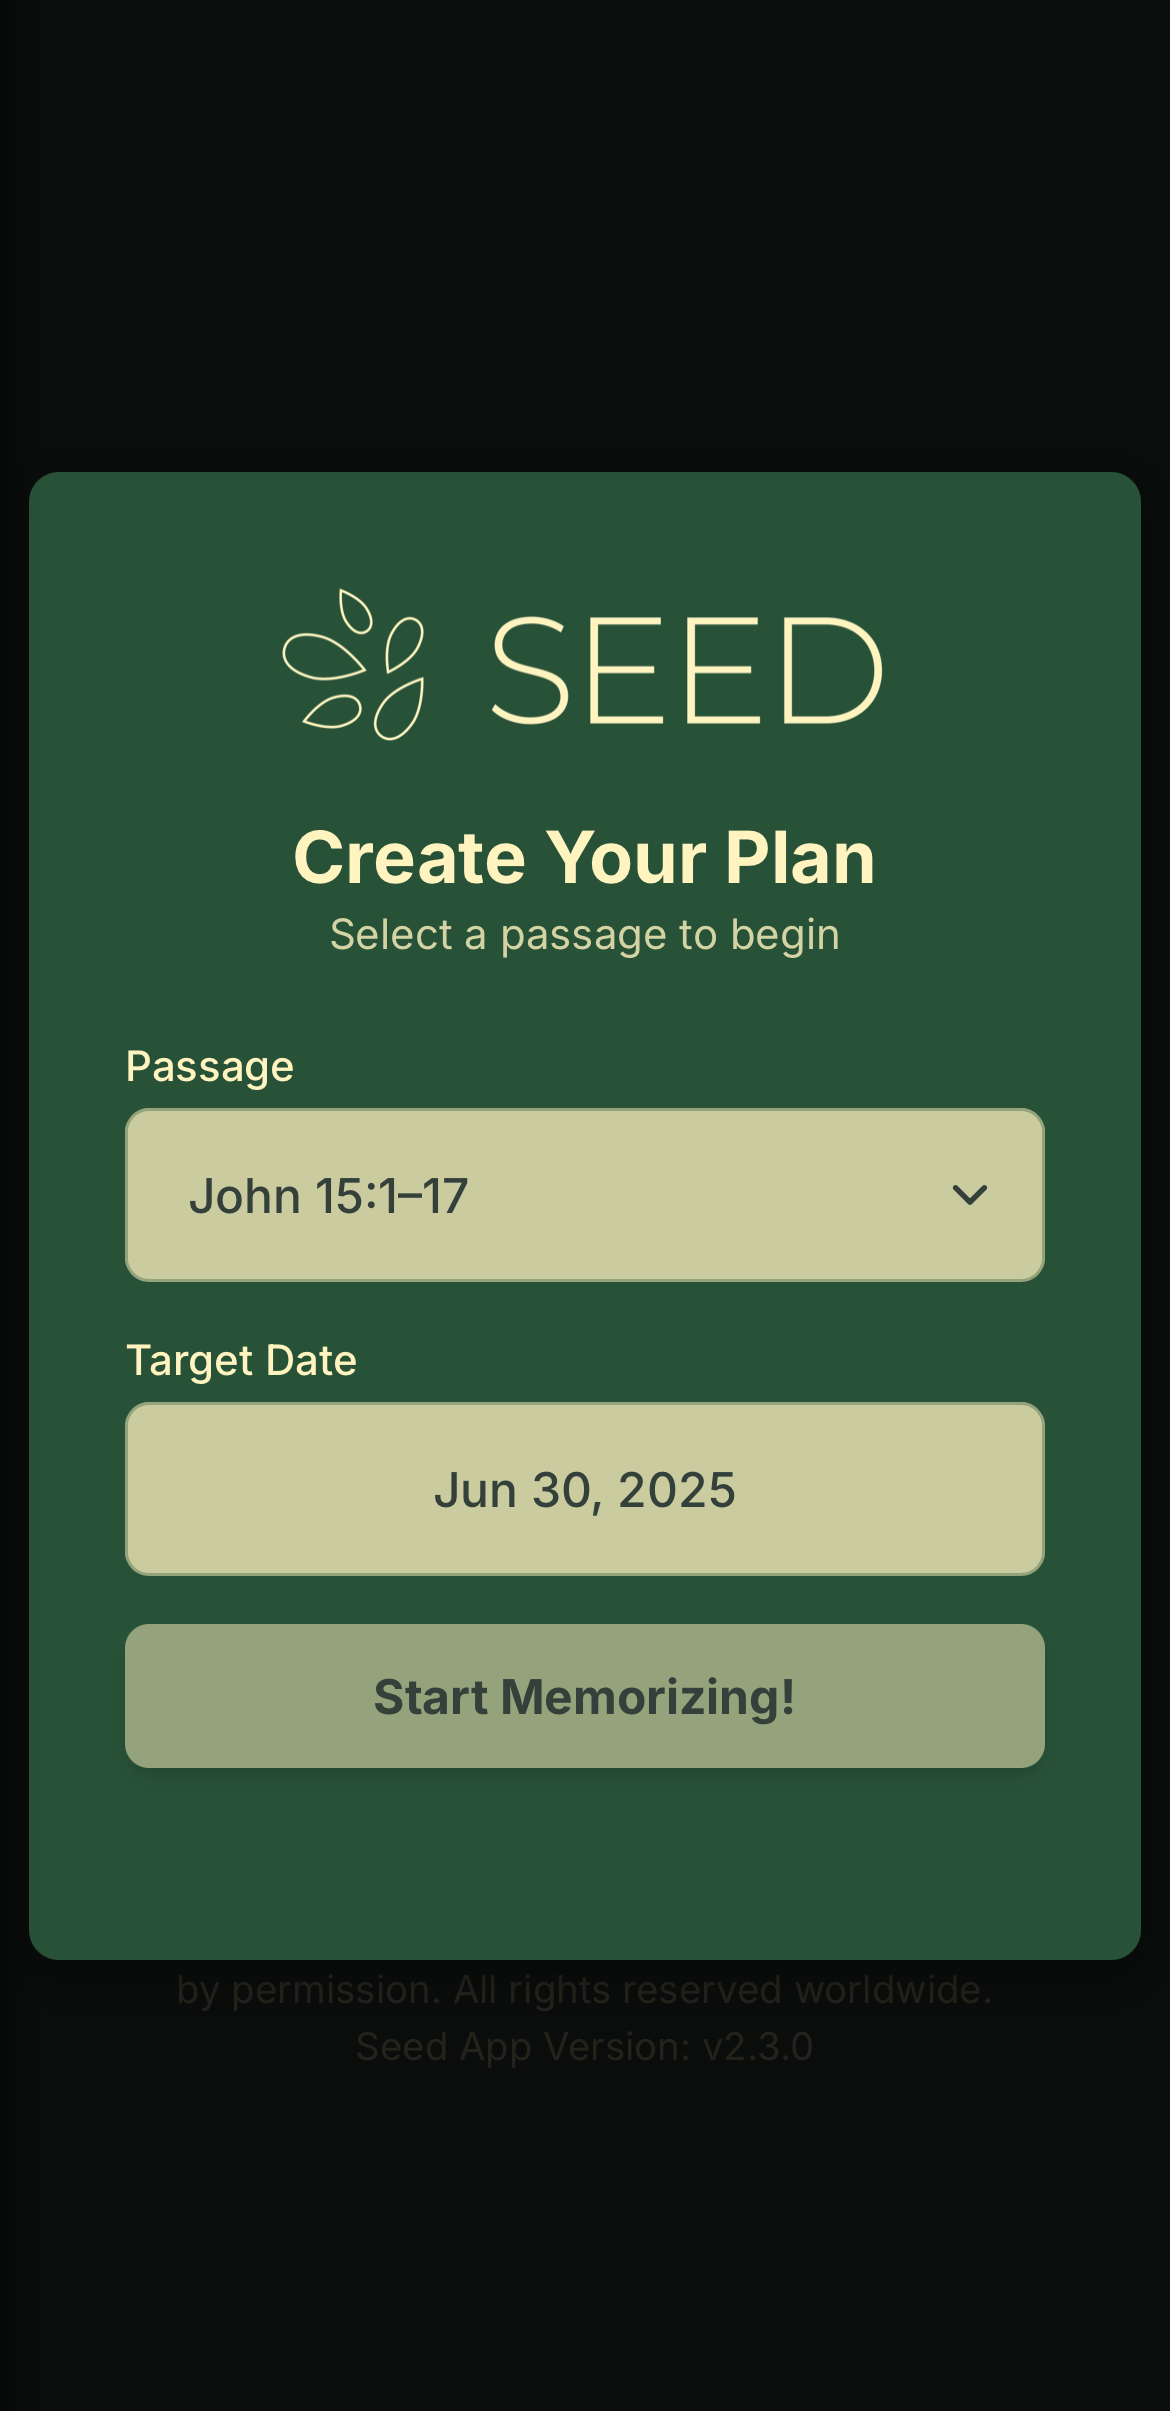
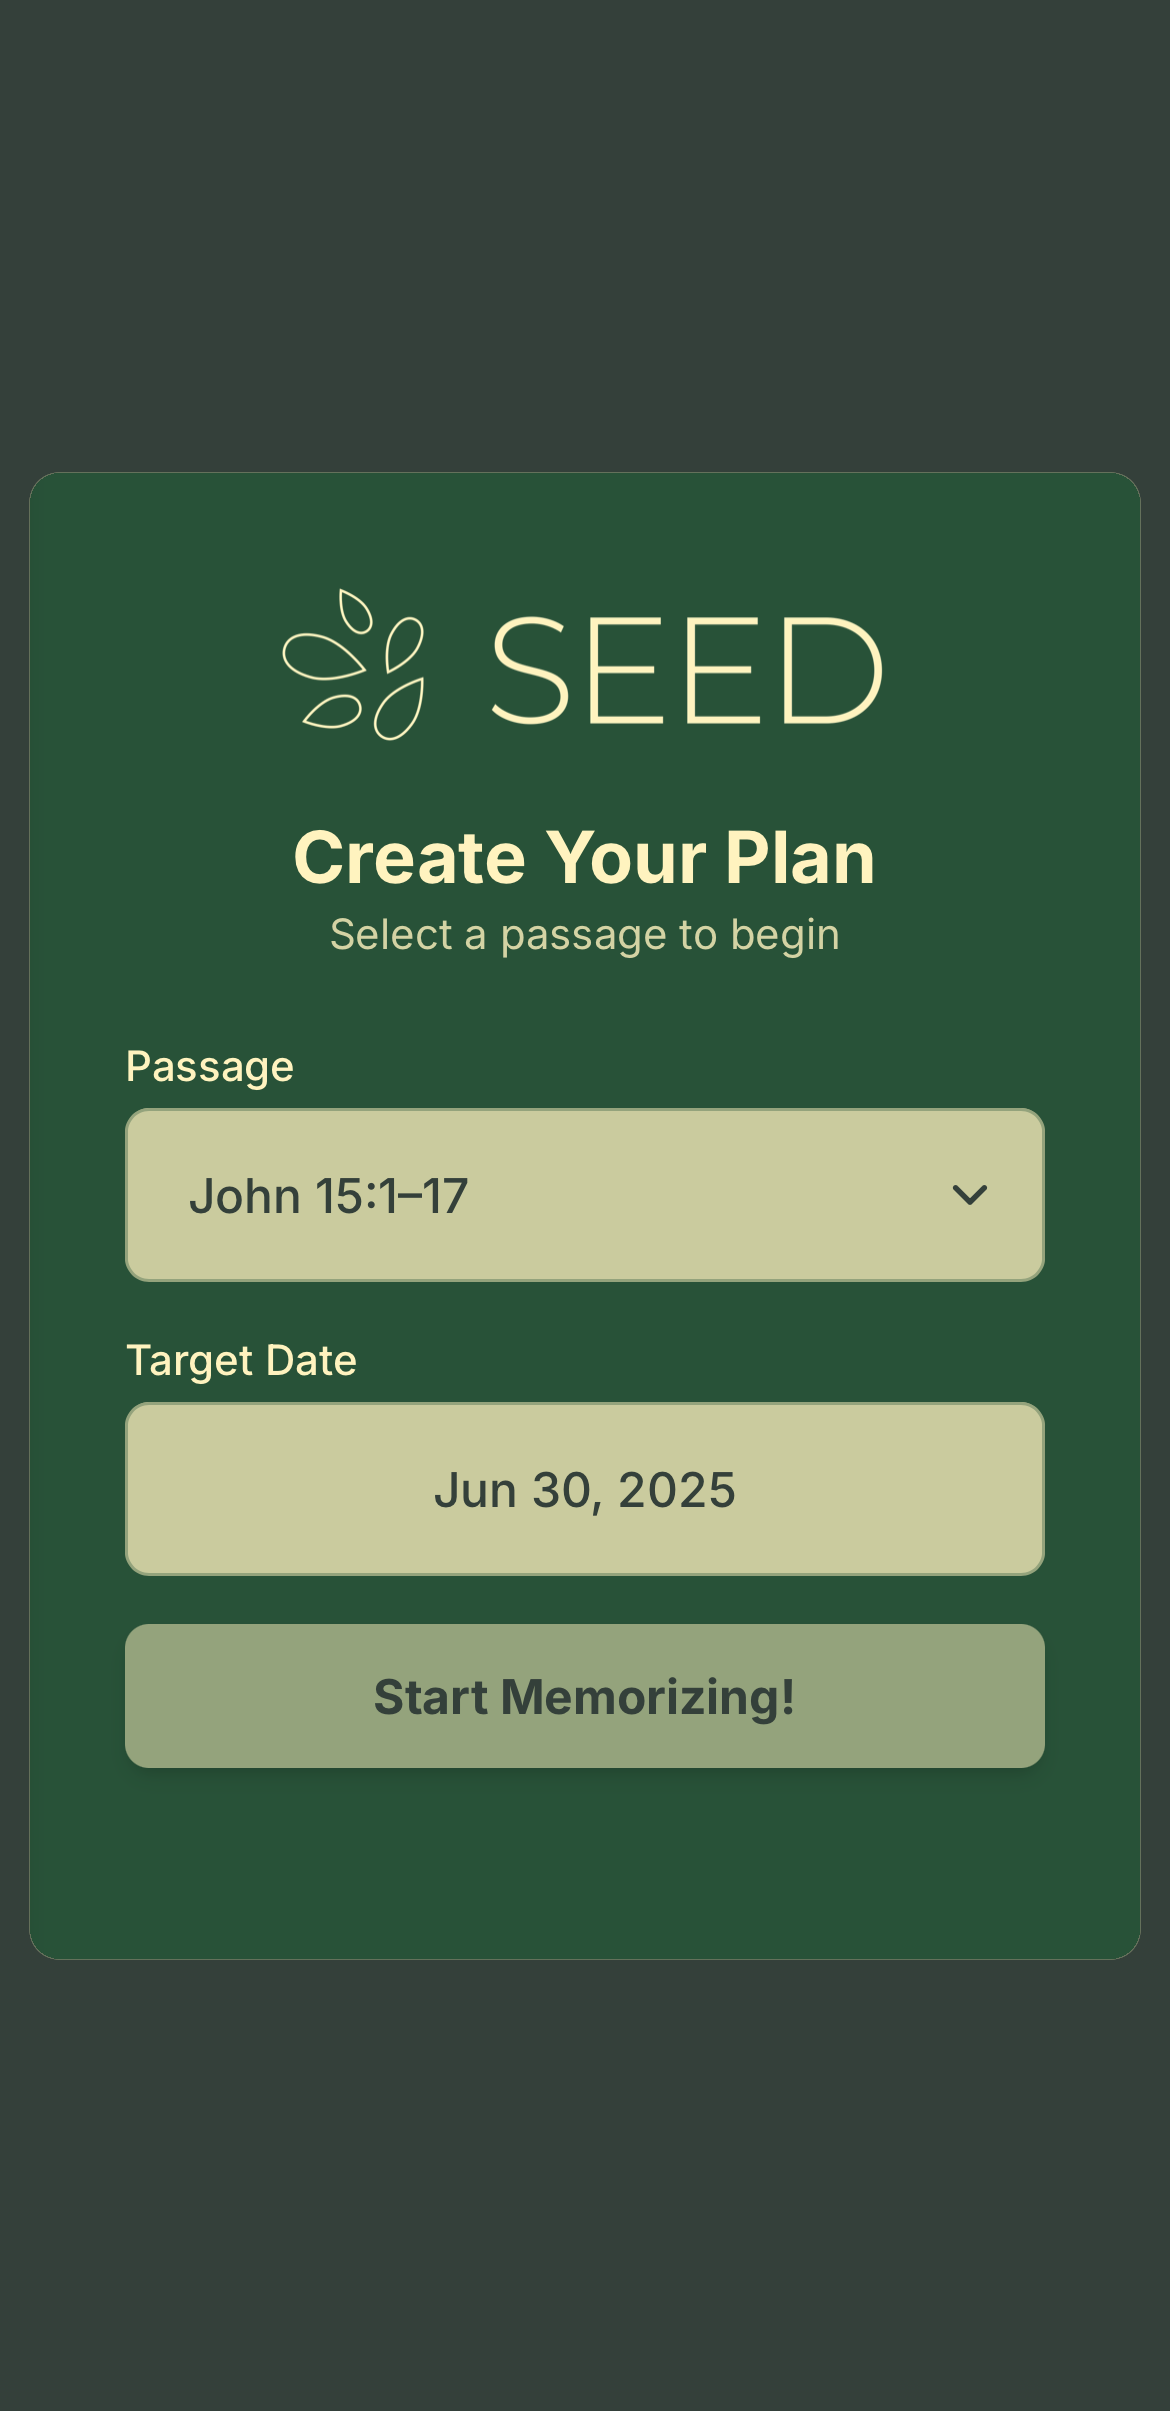
Polish landing page hero and layout

diff --git a/index.html b/index.html
@@ -192,7 +192,7 @@
                 Take a look at how Seed helps you meditate, memorize, and live rooted in God’s Word.
               </p>
               <div class="grid grid-cols-1 md:grid-cols-3 gap-6 px-4 md:px-0 max-w-6xl mx-auto">
-                <img src="https://i.imgur.com/ZMvW8n9.png" alt="Seed App Home Screen" class="w-full rounded-xl shadow-lg">
+                <img src="https://i.imgur.com/gEZWfcF.png" alt="Seed App Home Screen" class="w-full rounded-xl shadow-lg">
                 <img src="https://i.imgur.com/U3PQ7r7.png" alt="Progress Tracker Example" class="w-full rounded-xl shadow-lg">
                 <img src="https://i.imgur.com/pJydbD7.png" alt="Verse Practice View" class="w-full rounded-xl shadow-lg">
             </div>
